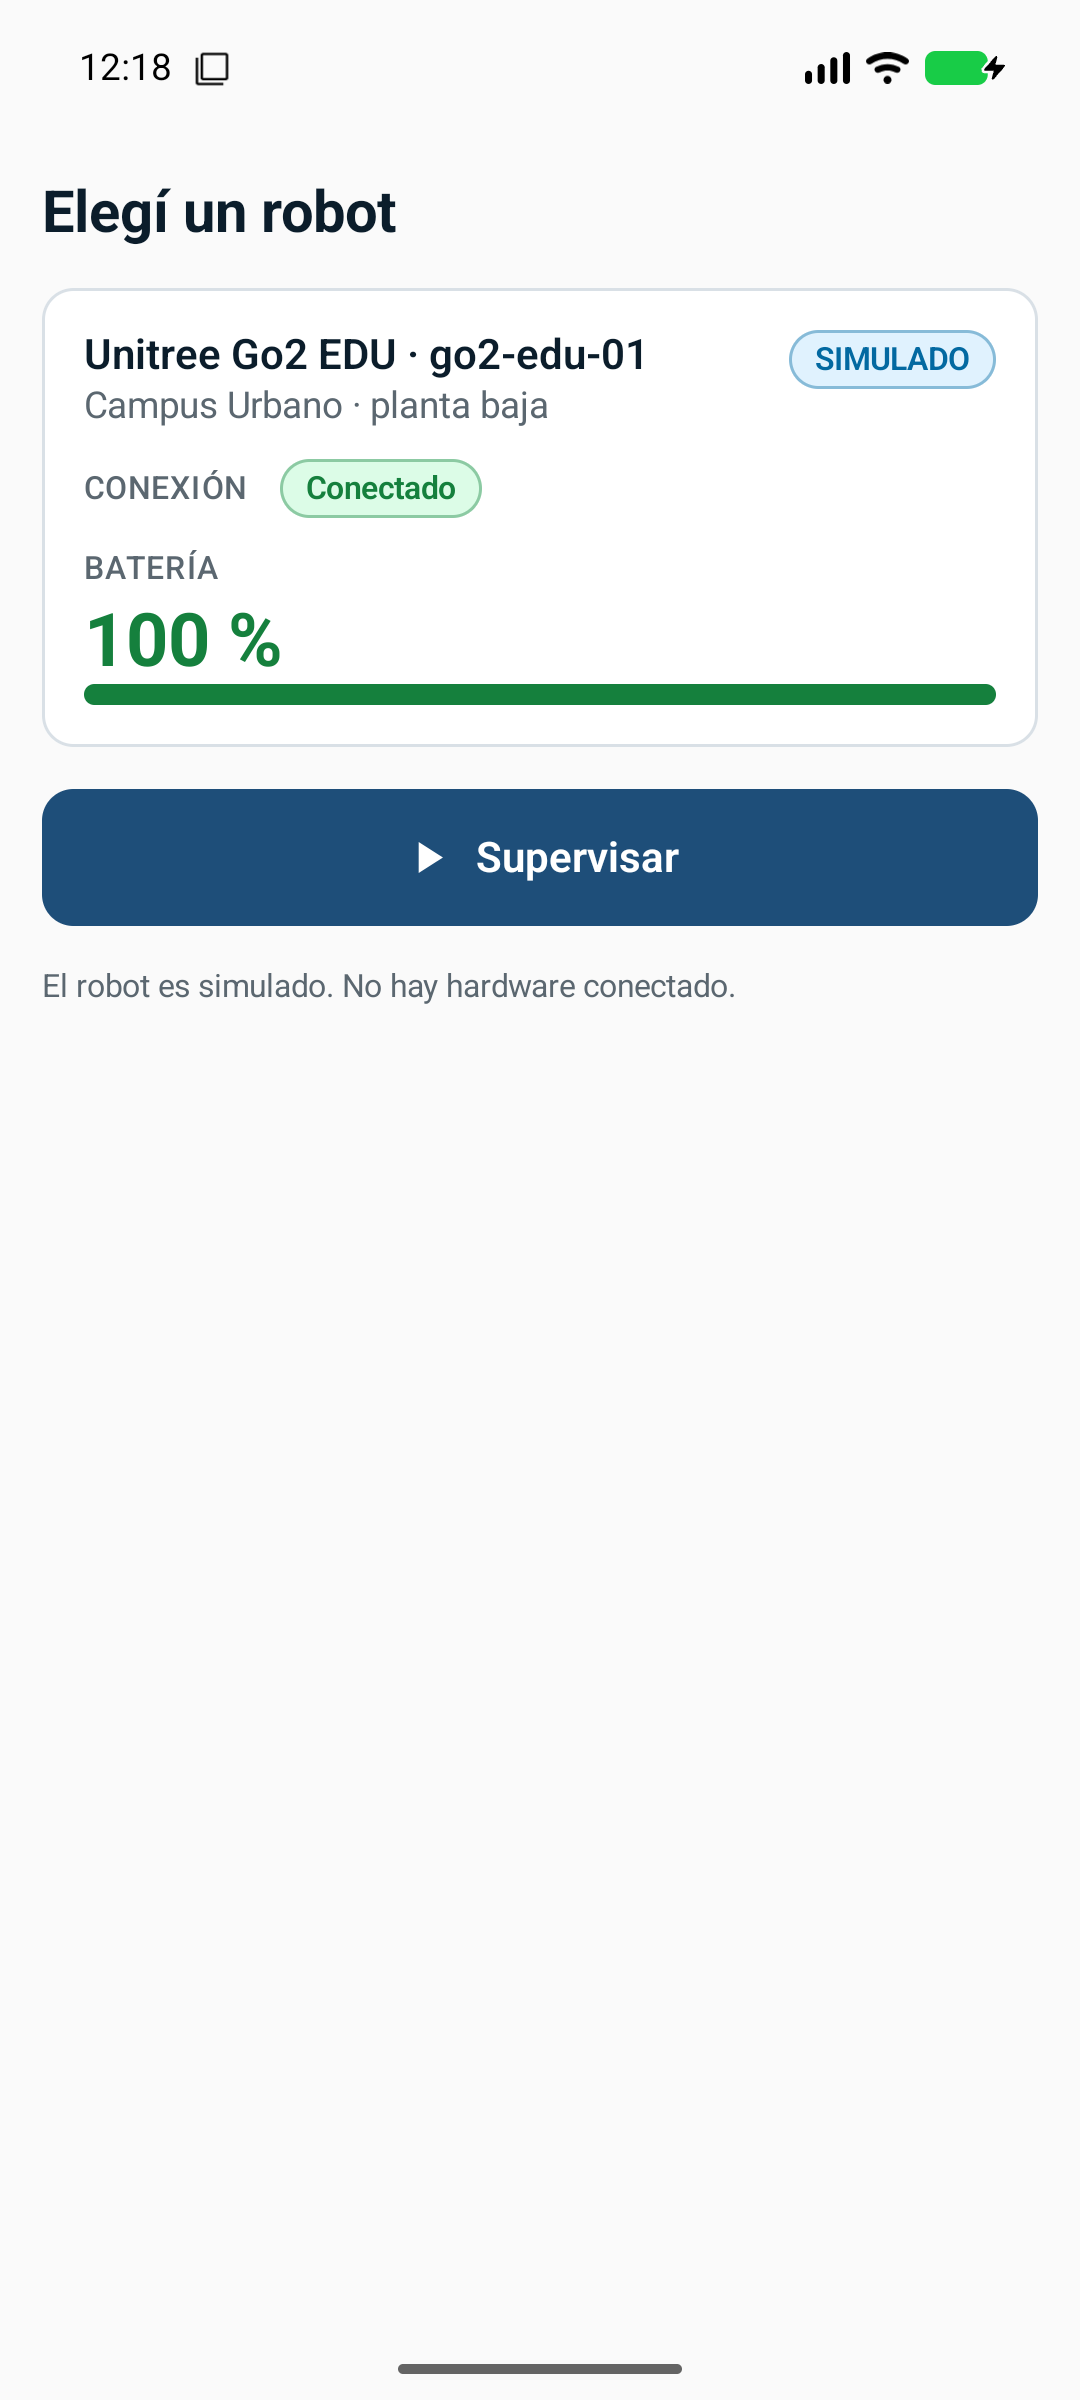
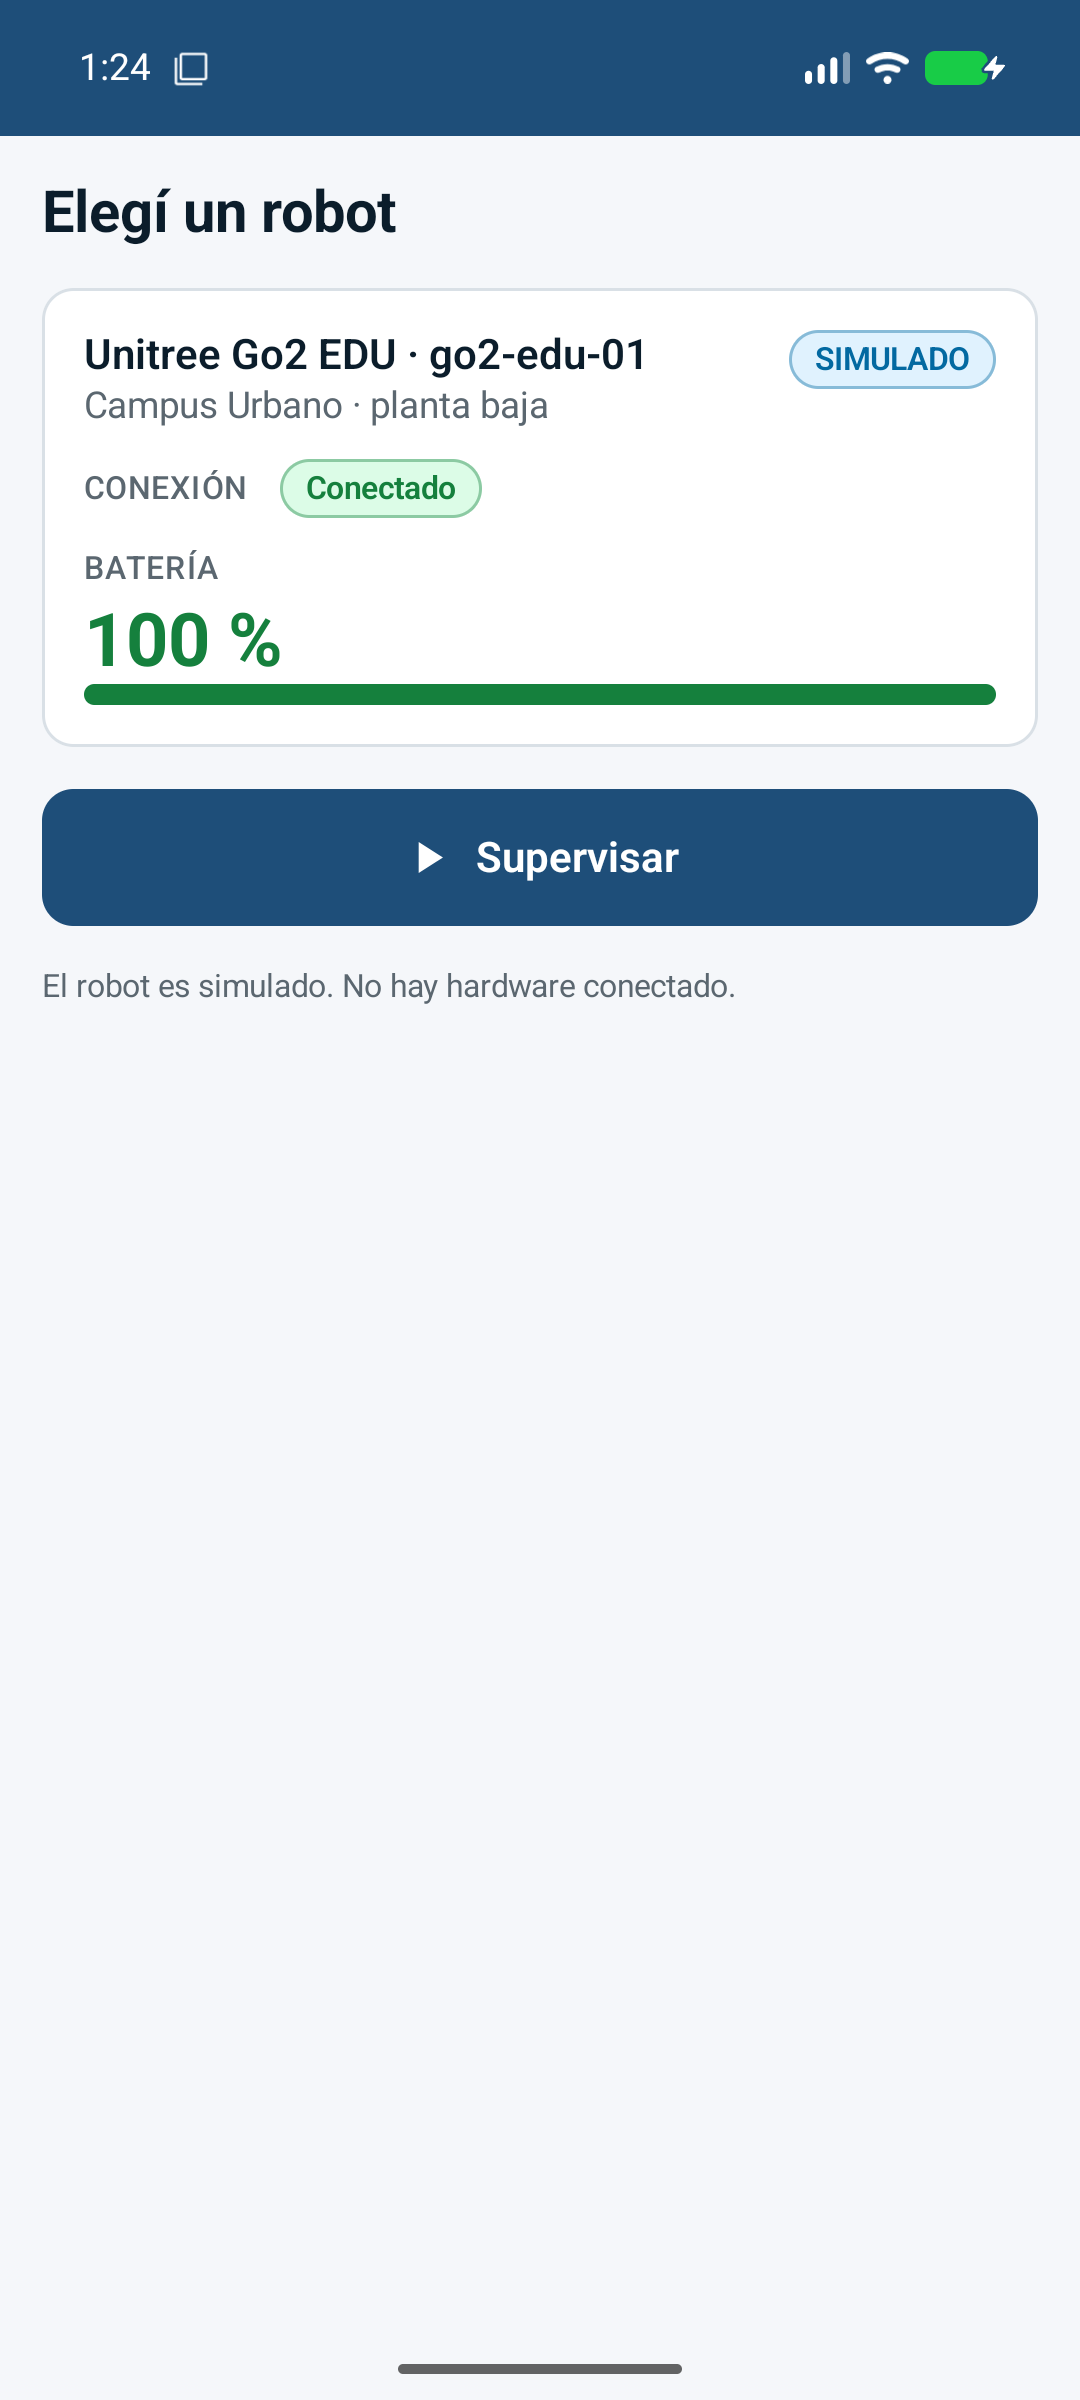
Paso 8: README, evidencias y arreglo del Panel a 360 dp
- README.md: que es la app, instalacion, uso, los 5 escenarios con el panel de
  simulacion, arquitectura, tests y limitaciones conocidas
- Panel: las tres tarjetas propias pasan a 2 + 1 cuando el ancho no alcanza
  (o la letra esta agrandada), para que las etiquetas no se partan
- evidencias/: captura de Seleccion actualizada y Panel a 360 dp
- .gitignore: entrega/ (el APK no se versiona)

Changed region(s): [[0.0, 0.0, 1.0, 0.0625]]

diff --git a/app/src/main/java/com/uade/robotcierre/ui/screens/SupervisionPanelScreen.kt b/app/src/main/java/com/uade/robotcierre/ui/screens/SupervisionPanelScreen.kt
@@ -3,6 +3,7 @@ package com.uade.robotcierre.ui.screens
 import androidx.compose.foundation.background
 import androidx.compose.foundation.layout.Arrangement
 import androidx.compose.foundation.layout.Box
+import androidx.compose.foundation.layout.BoxWithConstraints
 import androidx.compose.foundation.layout.Column
 import androidx.compose.foundation.layout.IntrinsicSize
 import androidx.compose.foundation.layout.Row
@@ -26,6 +27,7 @@ import androidx.compose.ui.Alignment
 import androidx.compose.ui.Modifier
 import androidx.compose.ui.draw.alpha
 import androidx.compose.ui.graphics.Color
+import androidx.compose.ui.platform.LocalDensity
 import androidx.compose.ui.unit.dp
 import com.uade.robotcierre.model.CommandType
 import com.uade.robotcierre.model.ConnectionState
@@ -183,36 +185,62 @@ private fun TelemetrySection(t: Telemetry, state: UiState) {
         }
     }
 
-    // Datos propios del servicio.
-    Row(Modifier.height(IntrinsicSize.Max), horizontalArrangement = Arrangement.spacedBy(12.dp)) {
+    // Datos propios del servicio. Si el ancho no alcanza para tres tarjetas (pantallas de 360 dp o
+    // letra agrandada), las etiquetas se partirían a mitad de palabra: se acomodan 2 + 1.
+    val people: @Composable (Modifier) -> Unit = { mod ->
         TarjetaDato(
             "Personas detectadas",
             t.peopleDetected.toString(),
-            Modifier.weight(1f).fillMaxHeight(),
+            mod,
             tone = if (t.peopleDetected > 0) Tone.ERROR else Tone.NEUTRAL,
             stale = stale,
             valueStyle = RobotText.Title,
             fitValue = true
         )
+    }
+    val verified: @Composable (Modifier) -> Unit = { mod ->
         TarjetaDato(
             "Zonas verificadas",
             verifiedText(t),
-            Modifier.weight(1f).fillMaxHeight(),
+            mod,
             stale = stale,
             valueStyle = RobotText.Title,
             fitValue = true
         )
+    }
+    val localization: @Composable (Modifier) -> Unit = { mod ->
         TarjetaDato(
             "Localización",
             t.localizationQuality.label(),
-            Modifier.weight(1f).fillMaxHeight(),
+            mod,
             tone = if (t.localizationQuality == LocalizationQuality.DEGRADED) Tone.WARNING else Tone.NEUTRAL,
             stale = stale,
             valueStyle = RobotText.Title,
             fitValue = true
         )
     }
+    BoxWithConstraints {
+        val narrow = maxWidth < MIN_WIDTH_FOR_THREE_CARDS || LocalDensity.current.fontScale > 1.1f
+        if (narrow) {
+            Column(verticalArrangement = Arrangement.spacedBy(12.dp)) {
+                Row(Modifier.height(IntrinsicSize.Max), horizontalArrangement = Arrangement.spacedBy(12.dp)) {
+                    people(Modifier.weight(1f).fillMaxHeight())
+                    verified(Modifier.weight(1f).fillMaxHeight())
+                }
+                localization(Modifier.fillMaxWidth())
+            }
+        } else {
+            Row(Modifier.height(IntrinsicSize.Max), horizontalArrangement = Arrangement.spacedBy(12.dp)) {
+                people(Modifier.weight(1f).fillMaxHeight())
+                verified(Modifier.weight(1f).fillMaxHeight())
+                localization(Modifier.weight(1f).fillMaxHeight())
+            }
+        }
+    }
 }
+
+/** Ancho útil mínimo para dibujar las tres tarjetas propias en una fila sin partir las etiquetas. */
+private val MIN_WIDTH_FOR_THREE_CARDS = 366.dp
 
 @Composable
 private fun ControlSection(state: UiState, onEvent: (RobotUiEvent) -> Unit) {

diff --git a/README.md b/README.md
@@ -1,0 +1,168 @@
+# Barrido de cierre de la planta baja de UADE
+
+App Android para **operar y supervisar un robot Unitree Go2 EDU simulado**. Trabajo práctico de HMI/HRI de *Desarrollo de Aplicaciones I* (UADE).
+
+**Caso de uso:** cuando termina la cursada de noche, el robot recorre la planta baja de la sede (hall, pasillo de servicios, puerta del baño, zona techada del patio, césped con asientos y explanada con rampa) para orientar a las personas hacia la salida y verificar que no quede nadie. Un operador de seguridad lo supervisa desde el celular. El robot **no entra al baño** (privacidad), **no abre puertas** y **no sube escaleras**.
+
+> ## Qué es real y qué no
+> - **No hay robot, servidor ni internet.** Todo funciona sin conexión en el celular. La app no declara el permiso `INTERNET` (verificado sobre el APK con `aapt2 dump permissions`).
+> - **El robot es un simulador.** Todos los valores (batería, velocidad, minutos restantes, calidad de localización, personas detectadas) son **derivados o inventados por el grupo, no mediciones**.
+> - **La "detención operativa" es un comando de software simulado.** **No reemplaza una parada de emergencia física**, y la app lo dice en pantalla.
+> - **El contrato de datos** (telemetría, órdenes, eventos) es una **propuesta del grupo, no un protocolo oficial de Unitree**.
+> - Enviar una orden **no equivale a que se ejecutó**: cada orden muestra su estado (Pendiente, Confirmada, Rechazada o Sin respuesta).
+
+## Instalación
+
+Requisitos: un celular o emulador con **Android 11 o superior (API 30+)**.
+
+El APK ya compilado está en [`entrega/BarridoCierreUADE-debug.apk`](entrega/BarridoCierreUADE-debug.apk) (30,9 MB, firmado con la clave de depuración).
+
+**Con `adb`** (celular con depuración USB, o emulador):
+
+```bash
+adb install -r entrega/BarridoCierreUADE-debug.apk
+```
+
+**Sin `adb`:** copiá el APK al celular, abrilo desde el administrador de archivos y aceptá "instalar apps de orígenes desconocidos" para esa app.
+
+**Compilarlo desde el código** (JDK 17 o superior; Android Studio lo trae):
+
+```bash
+./gradlew :app:assembleDebug
+# resultado: app/build/outputs/apk/debug/app-debug.apk
+```
+
+## Cómo se usa
+
+1. **Selección de robot:** tocá **Supervisar**. La app trae un único robot simulado (`go2-edu-01`).
+2. **Panel:** muestra la telemetría (conexión, batería, estado, progreso, movimiento, personas, zonas verificadas, localización) y los botones de control. Los botones que no corresponden aparecen **deshabilitados con el motivo**.
+3. **Rondas:** la ronda actual, las 6 zonas en orden y, al terminar, el **resumen de cierre** con "Registrar revisión manual".
+4. **Alertas:** las abiertas arriba y las cerradas atenuadas. "Reconocer alertas" cierra todas las abiertas.
+5. **Historial:** las rondas guardadas (sobreviven al cierre de la app); tocá una para ver sus eventos.
+6. **Cancelar ronda** y **Detención operativa** piden confirmación antes de enviarse.
+
+Si pasan más de 5 s sin telemetría, todo se marca como **ANTIGUO** y se muestra la hora de la última actualización.
+
+La app está bloqueada en vertical. Está pensada para el ancho de 360 dp de la especificación (probada también a 411 dp).
+
+## Panel de simulación: los 5 escenarios
+
+El panel sirve para **forzar** situaciones en el simulador. Se abre con el **engranaje ⚙** de la barra azul (está en las cuatro pestañas) y solo existe en modo demo. Las acciones que no tendrían efecto en ese momento aparecen deshabilitadas con su motivo. Al elegir una, la hoja se cierra.
+
+Tiempos del simulador (valores propuestos por el grupo): cada zona dura **20 s** (15 s de traslado + 5 s de verificación), el regreso a la base **15 s**, así que una ronda completa dura **unos 2 min 15 s** y gasta **~34 % de batería**.
+
+### 1. Misión normal
+1. Panel → **Iniciar ronda** (la orden pasa de *Pendiente* a *Confirmada*).
+2. Mirá la pestaña **Rondas**: el robot avanza del punto 1 al 6 y vuelve a la base.
+3. Al terminar aparece el **resumen de cierre**: "Ronda completa. Zonas libres: 5 de 6." La **puerta del baño siempre queda en revisión manual**.
+4. Tocá **Registrar revisión manual**: pasa a "Verificada manualmente" (6 de 6).
+5. En **Historial** queda la ronda con sus eventos.
+
+### 2. Batería baja
+1. Con una ronda en curso: ⚙ → **Batería baja** (lleva la batería a 21 %).
+2. A los ~4 s, al cruzar el 20 %, aparece la alerta **Batería baja** (pestaña Alertas) con las **zonas sin visitar**.
+3. El operador decide en el Panel: **Volver a la base** o **Cancelar ronda**. En el Historial la ronda queda como *Volvió antes de terminar* o *Cancelada*.
+
+> Una ronda normal desde 100 % no llega al 20 %: la advertencia solo aparece con esta acción (o después de varias rondas seguidas).
+
+### 3. Desconexión
+1. Con una ronda en curso: ⚙ → **Forzar desconexión**. Aparece el **banner rojo** "Sin conexión con el robot. Última actualización …" y la ronda queda en *Pausado*.
+2. A los 5 s: banner **Datos antiguos** y todo con la etiqueta **ANTIGUO**. Los botones quedan deshabilitados ("Sin conexión con el robot."), salvo **Detención operativa**, que advierte "Puede quedar sin respuesta."
+3. Probá **Detención operativa** → *Confirmar*: la orden queda *Pendiente* y a los 10 s pasa a **Sin respuesta**.
+4. ⚙ → **Reconectar**: banner verde **"Conexión recuperada. Reanudá la ronda cuando estés listo."** La ronda sigue pausada hasta que el operador toque **Reanudar ronda**.
+
+### 4. Incidente: persona detectada en el patio
+1. Con una ronda en curso, esperá a **"Punto 4 de 6 · Zona techada del patio"** (aparece ~60 s después de iniciar). La acción actúa sobre la zona **donde está el robot** en ese momento.
+2. ⚙ → **Persona detectada**: el robot **se detiene a distancia** (*Pausado*), aparece la alerta crítica y la zona queda en **Persona encontrada**.
+3. Pestaña **Alertas**: lee "Elegí: avisar a seguridad, continuar o volver a la base." Tocá **Reconocer alertas**.
+4. En el Panel: **Reanudar ronda** (continuar) o **Volver a la base**. Avisar a seguridad es una decisión del operador **fuera de la app**: no hay un botón para eso.
+5. Reconocer la alerta no cambia el estado de la zona: sigue en *Persona encontrada*.
+
+### 5. Zona no verificable (escenario propio)
+1. Con una ronda en curso, en una zona **que no sea el baño** (por ejemplo "Punto 5 · Césped con asientos"): ⚙ → **Zona no verificable**.
+2. La **localización pasa a Degradada** (simula lluvia), aparece la alerta y la zona queda **No verificable**. La localización vuelve a *Buena* al pasar a la zona siguiente.
+3. Al terminar, el resumen de cierre pide la revisión manual de esa zona (y del baño). Tocá **Registrar revisión manual** por cada una (la orden es `MANUAL_REVIEW`).
+
+### Extra: rechazo de una orden
+⚙ → **Rechazar próxima orden**, y enviá cualquier orden (por ejemplo **Iniciar ronda**): queda **Rechazada** con su motivo. Solo afecta a la siguiente orden.
+
+### Reiniciar la demo
+- Cerrar la app descarta el robot simulado: al volver a abrirla hay un robot nuevo, en reposo. Si había una ronda abierta, queda en el historial como *Interrumpida*.
+- Para vaciar también el historial: `adb shell pm clear com.uade.robotcierre` (o *Ajustes → Apps → Borrar datos*).
+- Para publicar la app **sin** el panel de simulación: crear el contenedor con `AppContainer(this, demoMode = false)` en `RobotCierreApplication`.
+
+## Arquitectura
+
+```
+UI (Jetpack Compose, Material 3)
+   │  observa StateFlow<UiState>  ·  envía RobotUiEvent
+   ▼
+RobotViewModel ── reglas de habilitación (CommandRules) ── HistoryRecorder
+   │                                                           │
+   ▼                                                           ▼
+RobotRepository (interfaz)                          HistoryRepository (interfaz)
+   │                                                           │
+   ▼                                                           ▼
+SimulatedRobotRepository  →  SimulationEngine       RoomHistoryRepository  →  Room (SQLite)
+```
+
+| Paquete | Contenido |
+|---|---|
+| `model/` | Enums y data classes del contrato: `Telemetry`, `Command`, `CommandResponse`, `RobotEvent`, `Zone`, `ZoneStatus`, registros del historial |
+| `repository/` | Interfaces `RobotRepository`, `SimulationControls`, `HistoryRepository` y el simulador (`SimulatedRobotRepository` + `SimulationEngine`, determinista y sin azar) |
+| `viewmodel/` | `RobotViewModel`, `UiState`, `CommandRules`, `HistoryRecorder` |
+| `data/` | Room: `MissionEntity`, `EventEntity`, `HistoryDao`, `AppDatabase`, `RoomHistoryRepository` |
+| `ui/` | Pantallas (`screens/`), componentes reutilizables (`components/`), navegación (`navigation/`) y tema (`theme/`) |
+
+- **La UI solo observa estado y envía eventos al ViewModel**; nunca toca el simulador.
+- Las reglas de habilitación de comandos las evalúa el ViewModel, no la UI.
+- Inyección de dependencias **manual** (`AppContainer`), sin Hilt. Corrutinas y Flow; sin librerías de red.
+- El ViewModel se crea **una sola vez por Activity** y sobrevive a la recreación. El simulador vive y muere con el ViewModel.
+- Versiones: Kotlin 2.2.10, AGP 9.3.3, Compose BOM 2026.02.01, Room 2.8.5 (con KSP 2.3.14), corrutinas 1.10.2, `minSdk 30`, `targetSdk 37`.
+
+## Tests
+
+```bash
+# Unitarios (sin dispositivo, ~10 s): reglas de habilitación, simulador, ViewModel, historial
+./gradlew :app:testDebugUnitTest
+
+# Instrumentados (necesitan un emulador o celular conectado, ~5 min): Room, pantallas y flujos completos
+./gradlew :app:connectedDebugAndroidTest
+```
+
+Estado actual: **92 tests unitarios y 64 instrumentados**, todos en verde (probados en un emulador Pixel 7 con Android 17). Los reportes HTML quedan en `app/build/reports/tests/testDebugUnitTest/index.html` y `app/build/reports/androidTests/connected/debug/index.html`.
+
+> **Cuidado:** los tests instrumentados **borran el historial** de la app instalada en el dispositivo de prueba y la **desinstalan** al terminar. Correrlos en un emulador, no en un celular con datos que quieras conservar.
+
+Algunos tests aceleran el simulador (una ronda de ~20 s) para recorrer los escenarios completos de punta a punta.
+
+**Regenerar las capturas** (se guardan en la carpeta privada de la app; hay que usar `am instrument` porque Gradle desinstala la app al terminar):
+
+```bash
+./gradlew :app:installDebug :app:installDebugAndroidTest
+adb shell am instrument -w -e class com.uade.robotcierre.SimulacionCapturasTest \
+    com.uade.robotcierre.test/androidx.test.runner.AndroidJUnitRunner
+adb exec-out run-as com.uade.robotcierre cat files/capturas/<nombre>.png > <nombre>.png
+```
+
+Clases de capturas: `PanelCapturasTest`, `PantallasCapturasTest` y `SimulacionCapturasTest`.
+
+## Qué hay en el repositorio
+
+| Ruta | Qué es |
+|---|---|
+| `app/` | Código fuente de la app, tests y el esquema de Room exportado (`app/schemas/`) |
+| `entrega/` | APK instalable |
+| `evidencias/` | Capturas del emulador: selección, panel, rondas, alertas, historial, simulación y los escenarios; incluye el Panel a 360 dp |
+| `ESPECIFICACION_PANTALLAS.md` | Especificación visual y de pantallas (base del Figma) |
+| `CLAUDE.md` | Reglas y alcance del proyecto |
+
+## Limitaciones conocidas
+
+- Solo se probó en un **emulador** (Pixel 7, Android 17), a 411 dp y a 360 dp. No se probó en un celular físico ni en una tablet.
+- El tema es **solo claro** (la especificación define una única paleta) y la orientación está **fija en vertical**. Desde Android 16, en pantallas grandes (tablets) el sistema puede ignorar el bloqueo de orientación.
+- El simulador no genera nunca el estado *Falla*, ni la conexión *Degradada*, ni el evento *Obstáculo* (la regla de "ruta bloqueada" existe y está testeada, pero no se puede provocar desde el panel).
+- No hay botón de **avisar a seguridad**: es una decisión del operador fuera de la app.
+- **Reconocer alertas** cierra todas las abiertas a la vez; el contrato no permite elegir una.
+- Los códigos de ronda (`M-001`) los reinicia el simulador en cada arranque, así que el historial puede mostrar varias rondas con el mismo código; se distinguen por fecha.
+- Solo hay APK de **depuración** (sin firma de publicación ni ofuscación).
